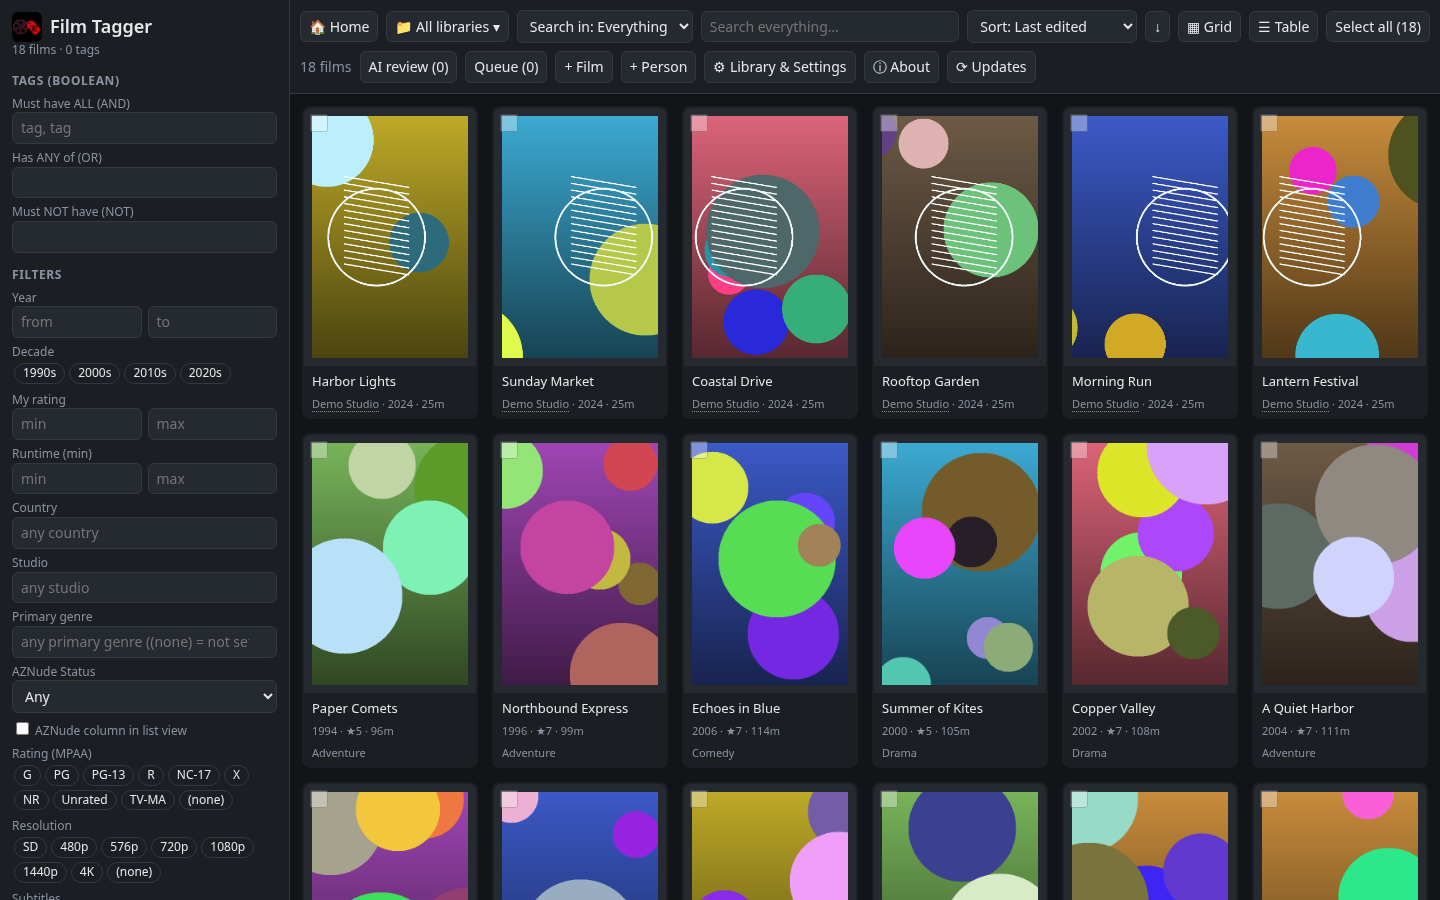
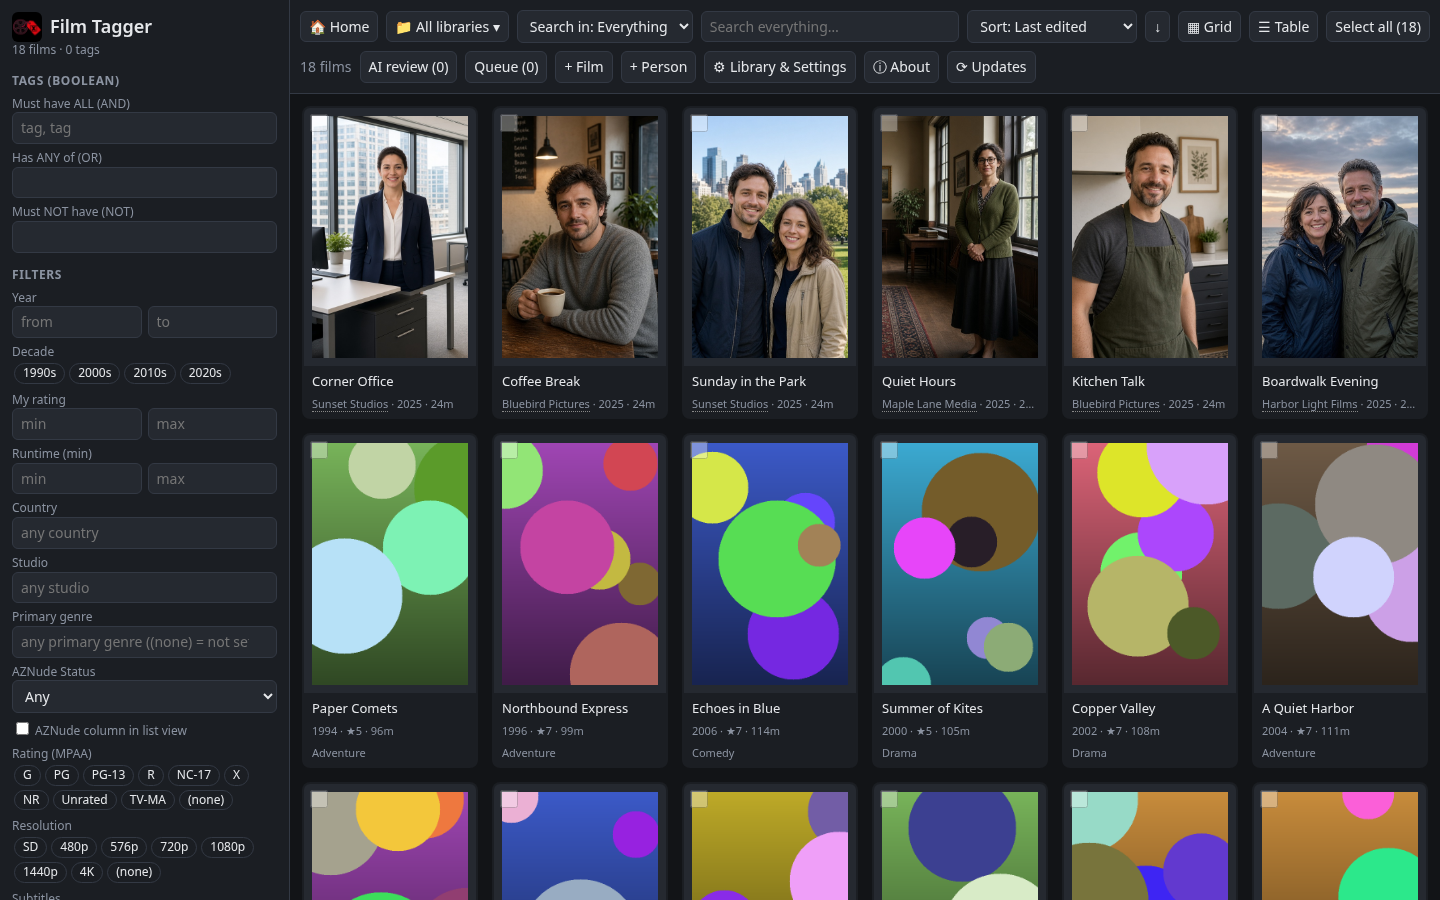
README: v1.0.43 smart-crop screenshots with real face detection and a before/after comparison

Changed region(s): [[0.2188, 0.1244, 1.0, 0.4667]]

diff --git a/README.md b/README.md
@@ -14,7 +14,7 @@ Most library apps squeeze a wide cover into a poster slot with a blind centre cr
 - **Sort: Last edited:** jump straight back to whatever you touched most recently, whether that was a tag edit, a poster change or a metadata refresh.
 - Scene titles wrapped in quotation marks are cleaned up automatically, and the smart-tag prompt no longer adds Cum/Semen to all-girl films.
 
-<p align="center"><img src="docs/screenshots/8-smart-crop-grid.png" alt="Smart-cropped poster grid" width="760"></p>
+<p align="center"><img src="docs/screenshots/0-smart-crop-before-after.png" alt="Plain centre crop vs Film Tagger smart crop" width="900"></p>
 
 ## Features
 ### Library
@@ -55,7 +55,9 @@ Mark one or more folders as **Scenes libraries** (Library & Settings) for indivi
 - **AZNude Status** per film (see below).
 
 ## Screenshots
-All screenshots use a demo library of public-domain classic films and fictional placeholder people; the v1.0.43 screenshots use made-up titles and abstract placeholder artwork.
+All screenshots use a demo library of public-domain classic films and fictional placeholder people; the v1.0.43 screenshots use made-up titles and studios, AI-generated covers of fictional people, and abstract placeholder artwork.
+
+![Plain centre crop (top) vs Film Tagger smart crop (bottom)](docs/screenshots/0-smart-crop-before-after.png)
 
 ![Smart-cropped poster grid, sorted by Last edited](docs/screenshots/8-smart-crop-grid.png)
 
